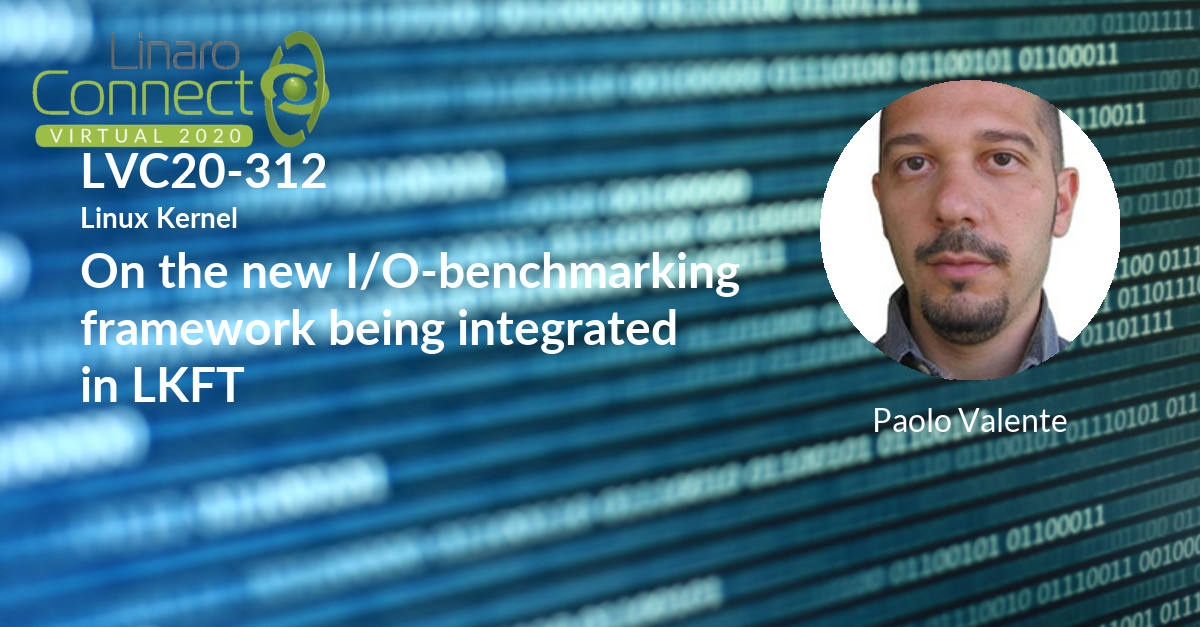
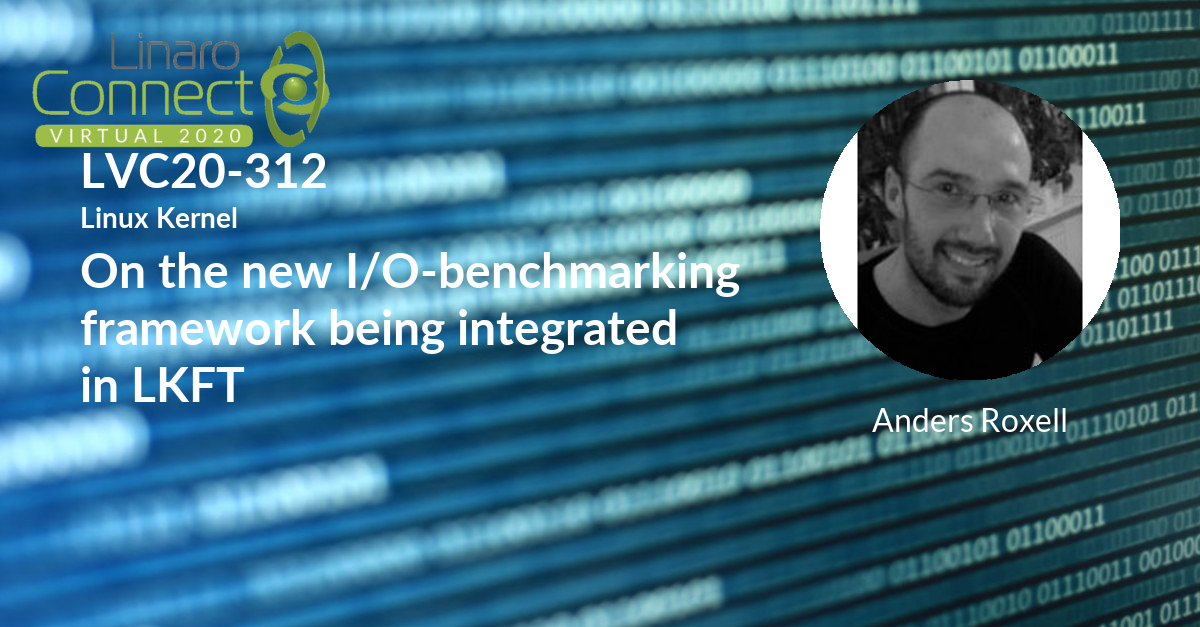
Session update for session-update-200917-1314

Changed region(s): [[0.7092, 0.1212, 0.925, 0.6061], [0.7092, 0.6364, 0.8942, 0.697]]

diff --git a/_posts/lvc20/sessions/2020-09-17-lvc20-312.md b/_posts/lvc20/sessions/2020-09-17-lvc20-312.md
@@ -14,6 +14,16 @@ session_slot:
   end_time: 2020-09-24 17:50
   start_time: 2020-09-24 17:25
 session_speakers:
+- speaker_bio: Versatile R&amp;amp;D professional with 6 years experience in software
+    development for embedded systems and their special requirements, with a large
+    knowledge base of how to troubleshoot complex real time systems. The technical
+    competence is built mostly upon R&amp;amp;D within embedded systems in both telecommunication
+    (e.g. base stations, media gateways) and automotive systems (e.g. engine-, gearbox-platforms).
+  speaker_company: Linaro
+  speaker_image: http://avatars.sched.co/d/eb/1467668/avatar.jpg.320x320px.jpg?d08
+  speaker_name: Anders Roxell
+  speaker_position: Software engineer
+  speaker_role: attendee, speaker
 - speaker_bio: Paolo Valente is an Assistant Professor of Computer Science at the
     University of Modena and Reggio Emilia, Italy, and a collaborator of the Linaro
     engineering organization. Paolo&#39;s main activities focus on scheduling algorithms

diff --git a/_posts/lvc20/sessions/2020-09-17-lvc20-107.md b/_posts/lvc20/sessions/2020-09-17-lvc20-107.md
@@ -35,7 +35,7 @@ session_speakers:
   speaker_image: http://avatars.sched.co/2/f1/10468633/avatar.jpg.320x320px.jpg?203
   speaker_name: Felipe Huici
   speaker_position: Chief Researcher, NEC Laboratories Europe GmbH
-  speaker_role: speaker
+  speaker_role: attendee, speaker
 session_track: IoT and Embedded
 tag: session
 tags: IoT and Embedded
